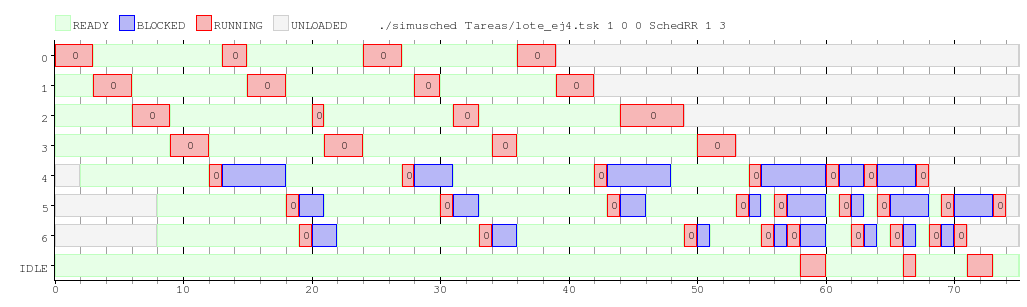
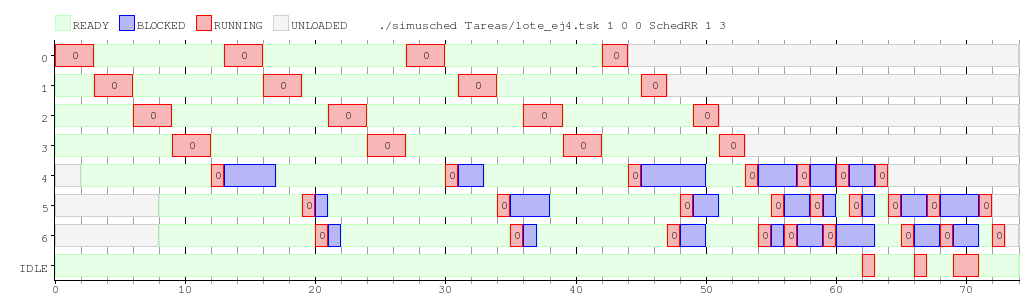
Corrije error en scheduler de Round Robin y actualiza los graficos

diff --git a/codigo/sched_rr.cpp b/codigo/sched_rr.cpp
@@ -41,7 +41,7 @@ int SchedRR::tick(int cpu, const enum Motivo motivo)
 		return next(cpu);
 
 	if (motivo == EXIT || motivo == BLOCK) {
-		cantTicks[cpu]++;
+		cantTicks[cpu] = 0;
 		return SiguienteTarea();
 	}
 
